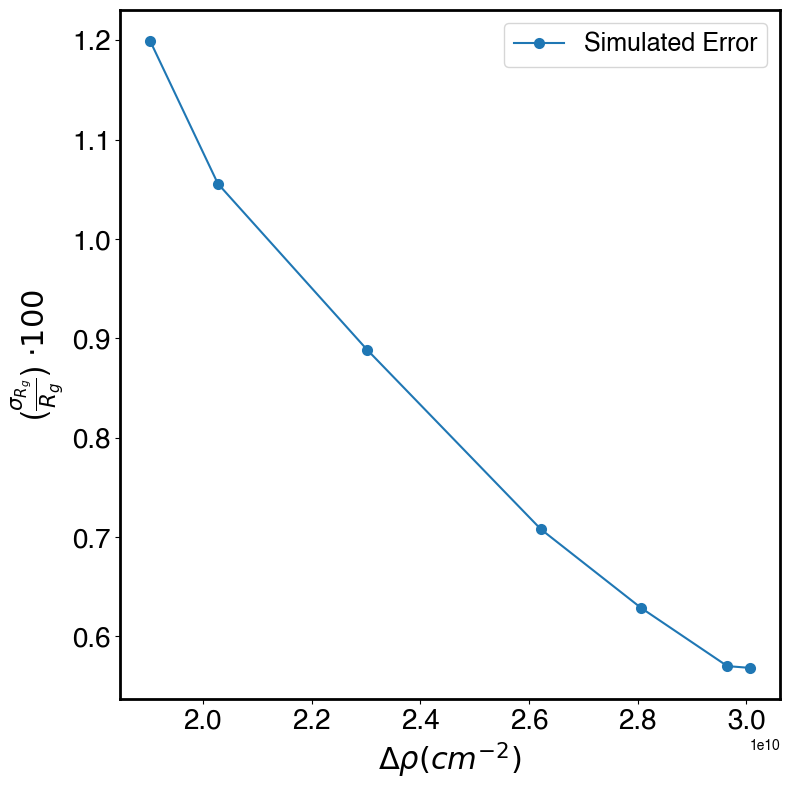
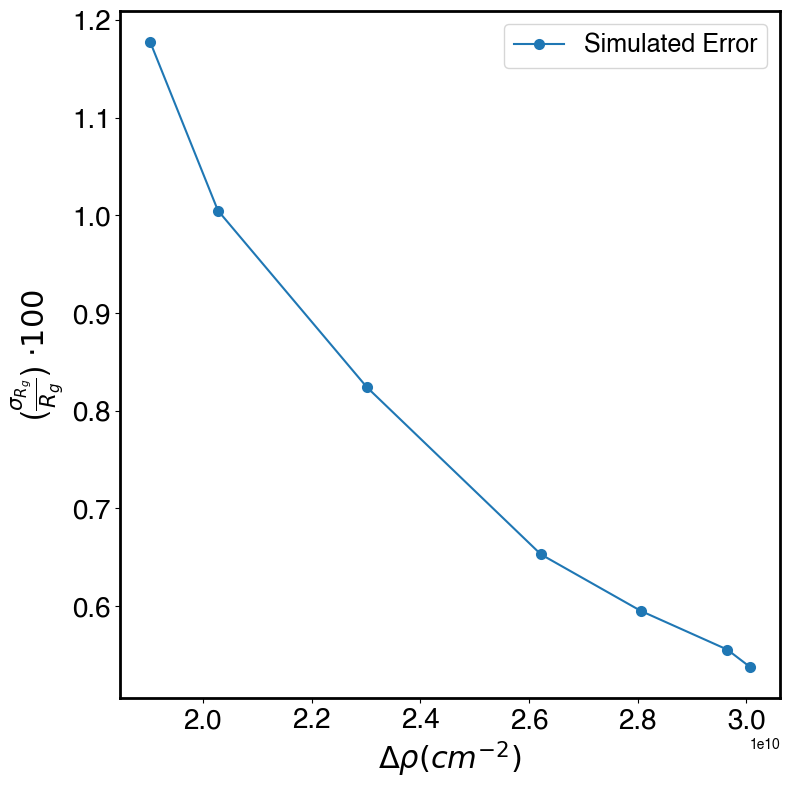
Fixed front end of the GUI and added user inputs

diff --git a/PythonGUI_TestFrame.py b/PythonGUI_TestFrame.py
@@ -9,54 +9,60 @@ from SAXSProf_ErrCalcs import *
 warnings.filterwarnings("ignore", category=RuntimeWarning)
 
 root = Tk()
-root.title("New Application")
+root.title("SAXSProf Desktop GUI")
 root.geometry("640x640+0+0")
 
 # Build Header
-heading = Label(root, text='Welcome to SAXProf: \nWhere all your SAXS \nsimulation dreams come true', font = ('helvetica', 40, 'bold'), fg = 'steelblue').pack()
+heading = Label(root, text='Welcome to SAXProf: \nWhere all your SAXS \nsimulation dreams come true', font = ('helvetica', 40, 'bold'), fg = '#F10303').pack()
 
-# Build Labels
+# Build Entry Labels
 label1 = Label(root, text = 'Enter your concentration (mg/ml): ', font = ('helvetica', 20, 'bold'), fg = 'black').place(x=10, y = 200)
 label2 = Label(root, text = 'Enter your MWt(kDa): ', font = ('helvetica', 20, 'bold'), fg = 'black').place(x=10, y = 250)
 label3 = Label(root, text = 'Enter your energy (keV): ', font = ('helvetica', 20, 'bold'), fg = 'black').place(x=10, y = 300)
+label4 = Label(root, text = 'Enter exposure time (seconds): ', font = ('helvetica', 20, 'bold'), fg = 'black').place(x=10, y = 350)
+label5 = Label(root, text = 'Enter flux (photons/second): ', font = ('helvetica', 20, 'bold'), fg = 'black').place(x=10, y = 400)
 
-# Build Entries for Labels
+# Build Entries for Entry Labels
 conc = StringVar()
-entry_box = Entry(root, textvariable = conc, width = 25, bg = 'lightgreen').place(x=350, y = 200)
+entry_box = Entry(root, textvariable = conc, width = 25, bg = '#2F8E08').place(x=350, y = 200)
 MWt = StringVar()
-entry_box = Entry(root, textvariable = MWt, width = 25, bg = 'lightgreen').place(x=350, y = 250)
+entry_box = Entry(root, textvariable = MWt, width = 25, bg = '#2F8E08').place(x=350, y = 250)
 Energy = StringVar()
-entry_box = Entry(root, textvariable = Energy, width = 25, bg = 'lightgreen').place(x=350, y = 300)
+entry_box = Entry(root, textvariable = Energy, width = 25, bg = '#2F8E08').place(x=350, y = 300)
+time = StringVar()
+entry_box = Entry(root, textvariable = time, width = 25, bg = '#2F8E08').place(x=350, y = 350)
+flux = StringVar()
+entry_box = Entry(root, textvariable = flux, width = 25, bg = '#2F8E08').place(x=350, y = 400)
 # Set default values #
 conc.set(5)
 MWt.set(14)
 Energy.set(14.14)
+time.set(0.50)
+flux.set(3.8e12)
 
 def sim_params(energy = 14.14, P = 3.8e12, snaps = 1, a = 150.47,
 	d = 0.15, window_type = 'mica', sensor_thickness = 0.032, t = 0.4450):
 	return energy, P, snaps, a, d, window_type, sensor_thickness, t
 
 def do_it():
-	energy, P, snaps, a, d, window_type, sensor_thickness, t = sim_params(energy = np.float(Energy.get()))
+	print("-------------------------")
+	print("Simulation Parameters:")
+	energy, P, snaps, a, d, window_type, sensor_thickness, t = sim_params(energy = np.float(Energy.get()),P = np.float(flux.get()) ,t = np.float(time.get()))
 	print("The concentration (mg/ml) of your sample is:  " + str(conc.get()))
 	print("The MWt(kDa) of your sample is:  " + str(MWt.get()))
 	print("The energy (keV) is: " + str(Energy.get()))
-	print("The flux (photons/sec): " + str(P))
+	print("The flux (photons/sec): " + str(flux.get()))
 	print("The number of exposures taken: " + str(snaps))
-	print("The exposure time: " + str(t))
+	print("The exposure time: " + str(time.get()))
 	print("The sample-detector distance (cm) is: " + str(a))
 	print("The sample-thickness (cm): " + str(d))
 	print("The window material: " + str(window_type))
 	print("The sensor-thickness (cm): " + str(sensor_thickness))
+	print("-------------------------")
 
-# from tkinter.messagebox import *
-# def do_it():
-# 	energy, P, snaps, a, d, window_type, sensor_thickness, t = sim_params(energy = np.float(Energy.get()))
-# 	blank.insert(0, energy)
-# blank = Entry(root)
 
 # Build Buttons:
-Simulation_Parameters = Button(root, text="Simulation Parameters", width = 30, height = 5, bg = 'lightblue', command =do_it).place(x=320, y=340)
+Simulation_Parameters = Button(root, text="Simulation Parameters", width = 30, height = 2, bg = 'lightblue', command =do_it).place(x=320, y=430)
 
 def plot_S1(X, Y, plotlabel = '', savelabel = '', xlabel = '', ylabel = ''):
     if len(X) == len(Y):
@@ -84,11 +90,11 @@ def plot_S1(X, Y, plotlabel = '', savelabel = '', xlabel = '', ylabel = ''):
 
 def gen_simulation():
 
-	energy, P, snaps, a, d, window_type, sensor_thickness, t = sim_params(energy = np.float(Energy.get()))
+	energy, P, snaps, a, d, window_type, sensor_thickness, t = sim_params(energy = np.float(Energy.get()),P = np.float(flux.get()) ,t = np.float(time.get()))
 
 	# c = 5.0 # concentration (mg.ml)
 	c = np.array(conc.get())
-	t = 0.4450 # Exposure time (seconds)
+	# t = time.get() # Exposure time (seconds)
 	# mw1 = 14.3 # Molecular Weight (kDa)
 	mw1 = np.array(MWt.get())
 	saxs1 = SAXS(mw=mw1,a=a,d=d,energy=energy,P=P,t=t,total_t=t*snaps,c=c,shape='FoxS', detector='100K')
@@ -119,14 +125,14 @@ def gen_simulation():
 	return energy, saxs1
 
 # Associated Button	
-Generate = Button(root, text="Generate", width = 30, height = 5, bg = 'lightblue', command =gen_simulation).place(x=320, y=400)
+Generate = Button(root, text="Generate", width = 30, height = 2, bg = 'lightblue', command =gen_simulation).place(x=320, y=470)
 
 def err_calcs():
 
-	energy, P, snaps, a, d, window_type, sensor_thickness, t = sim_params(energy = np.float(Energy.get()))
+	energy, P, snaps, a, d, window_type, sensor_thickness, t = sim_params(energy = np.float(Energy.get()),P = np.float(flux.get()) ,t = np.float(time.get()))
 	# c = 5.0 # concentration (mg.ml)
 	c = np.array(conc.get())
-	t = 0.4450 # Exposure time (seconds)
+	# t = time.get() # Exposure time (seconds)
 	# mw1 = 14.3 # Molecular Weight (kDa)
 	mw1 = np.array(MWt.get())
 	saxs1 = SAXS(mw=mw1,a=a,d=d,energy=energy,P=P,t=t,total_t=t*snaps,c=c,shape='FoxS', detector='100K')
@@ -228,9 +234,9 @@ def err_calcs():
                  xlabel = '$\Delta \\rho (cm^{-2})$',
                  ylabel = '($\\frac{\sigma_{R_{g}}}{R_{g}}$) $\cdot 100$')	
 
+# Associated Button
+Error_Calcs = Button(root, text="Error Calculations", width = 30, height = 2, bg = 'lightblue', command =err_calcs).place(x=320, y=510)
 
-Error_Calcs = Button(root, text="Error Calculations", width = 30, height = 5, bg = 'lightblue', command =err_calcs).place(x=320, y=450)
-
-
-Button(root,text='Quit',command=root.destroy).place(x=20, y=450)
+# Build a 'quit' button
+Button(root,text='Quit',command=root.destroy).place(x=565, y=550)
 root.mainloop()
